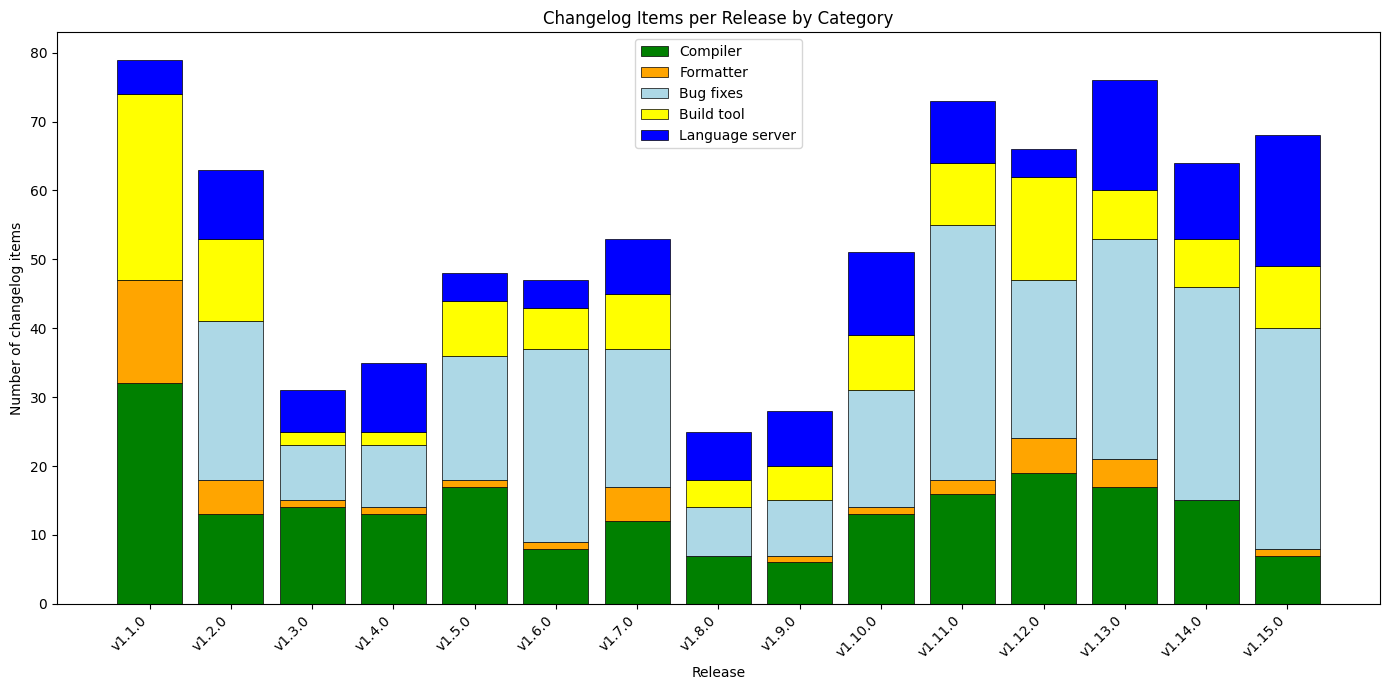
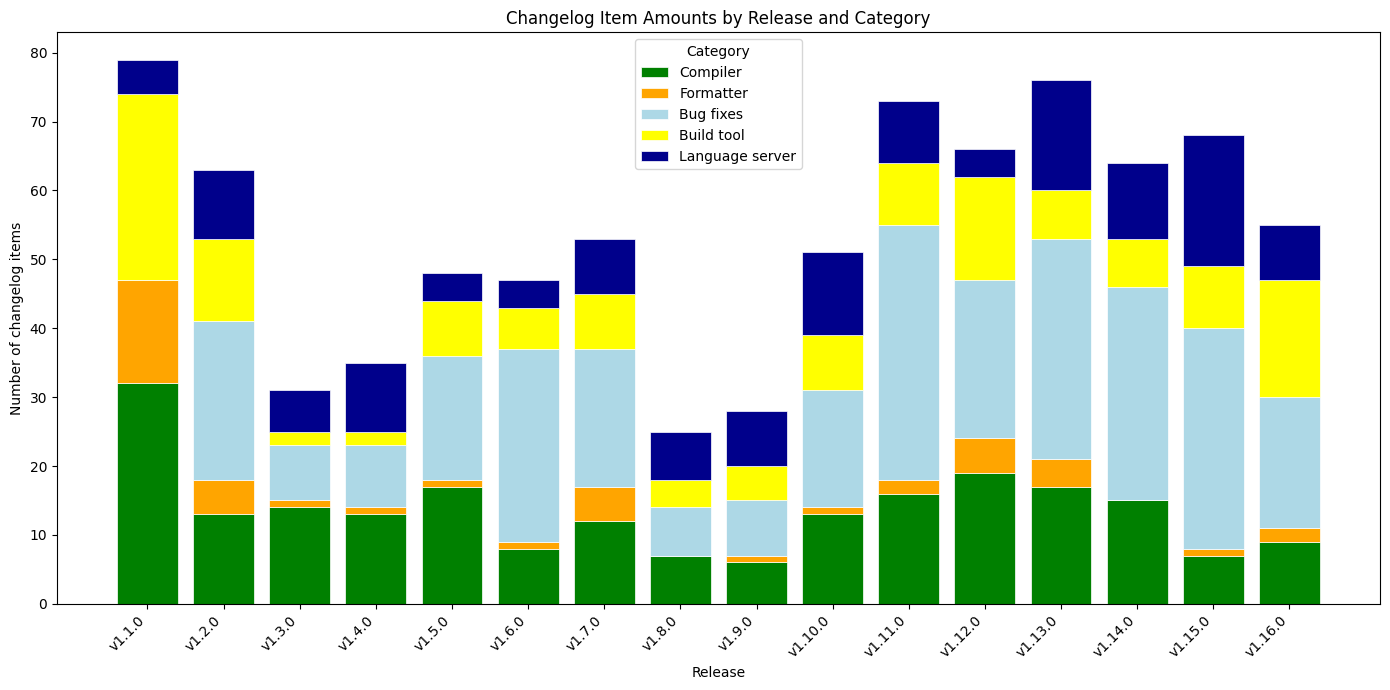
gleam v1.16

diff --git a/README.md b/README.md
@@ -43,6 +43,14 @@ Here are the colors for each category:
 
 ```json
 {
+  "release": "v1.16.0",
+  "compiler": 9,
+  "formatter": 2,
+  "bug_fixes": 19,
+  "build_tool": 17,
+  "language_server": 8
+}
+{
   "release": "v1.15.0",
   "compiler": 7,
   "formatter": 1,
